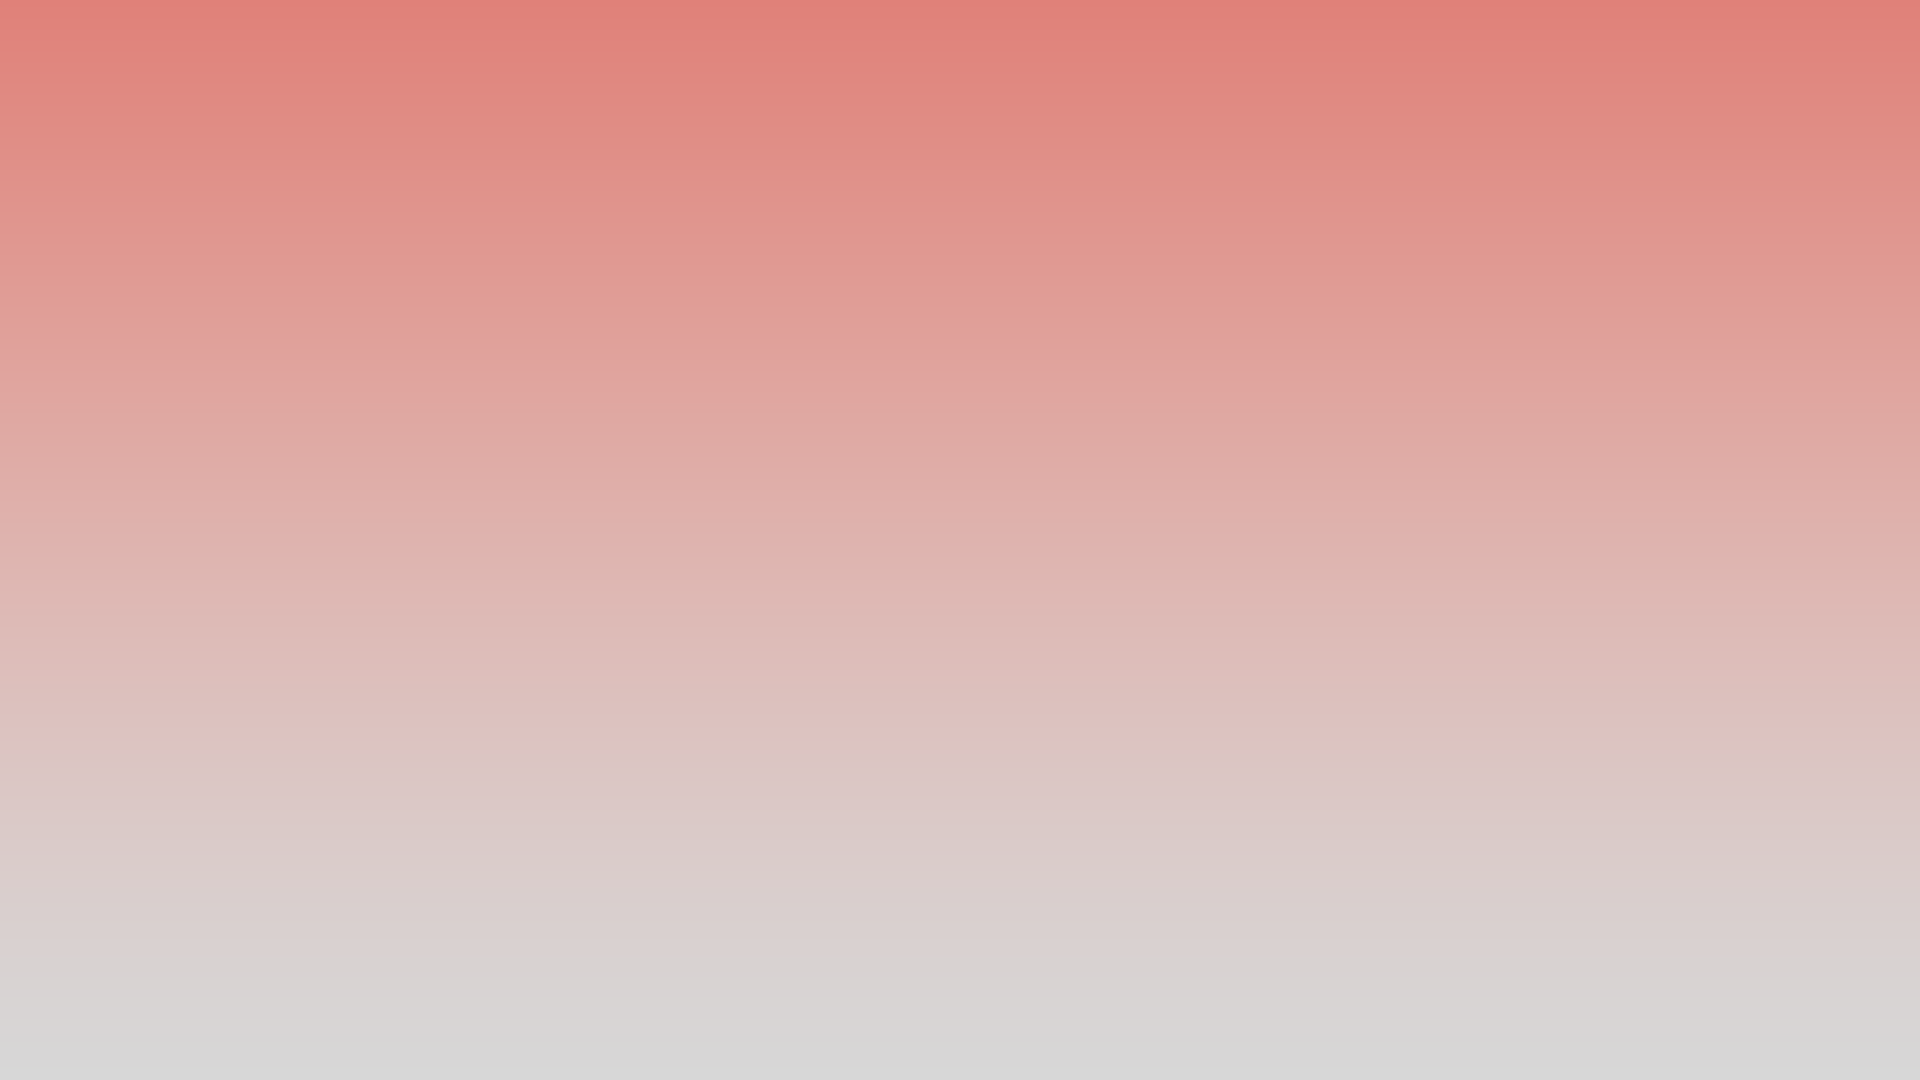
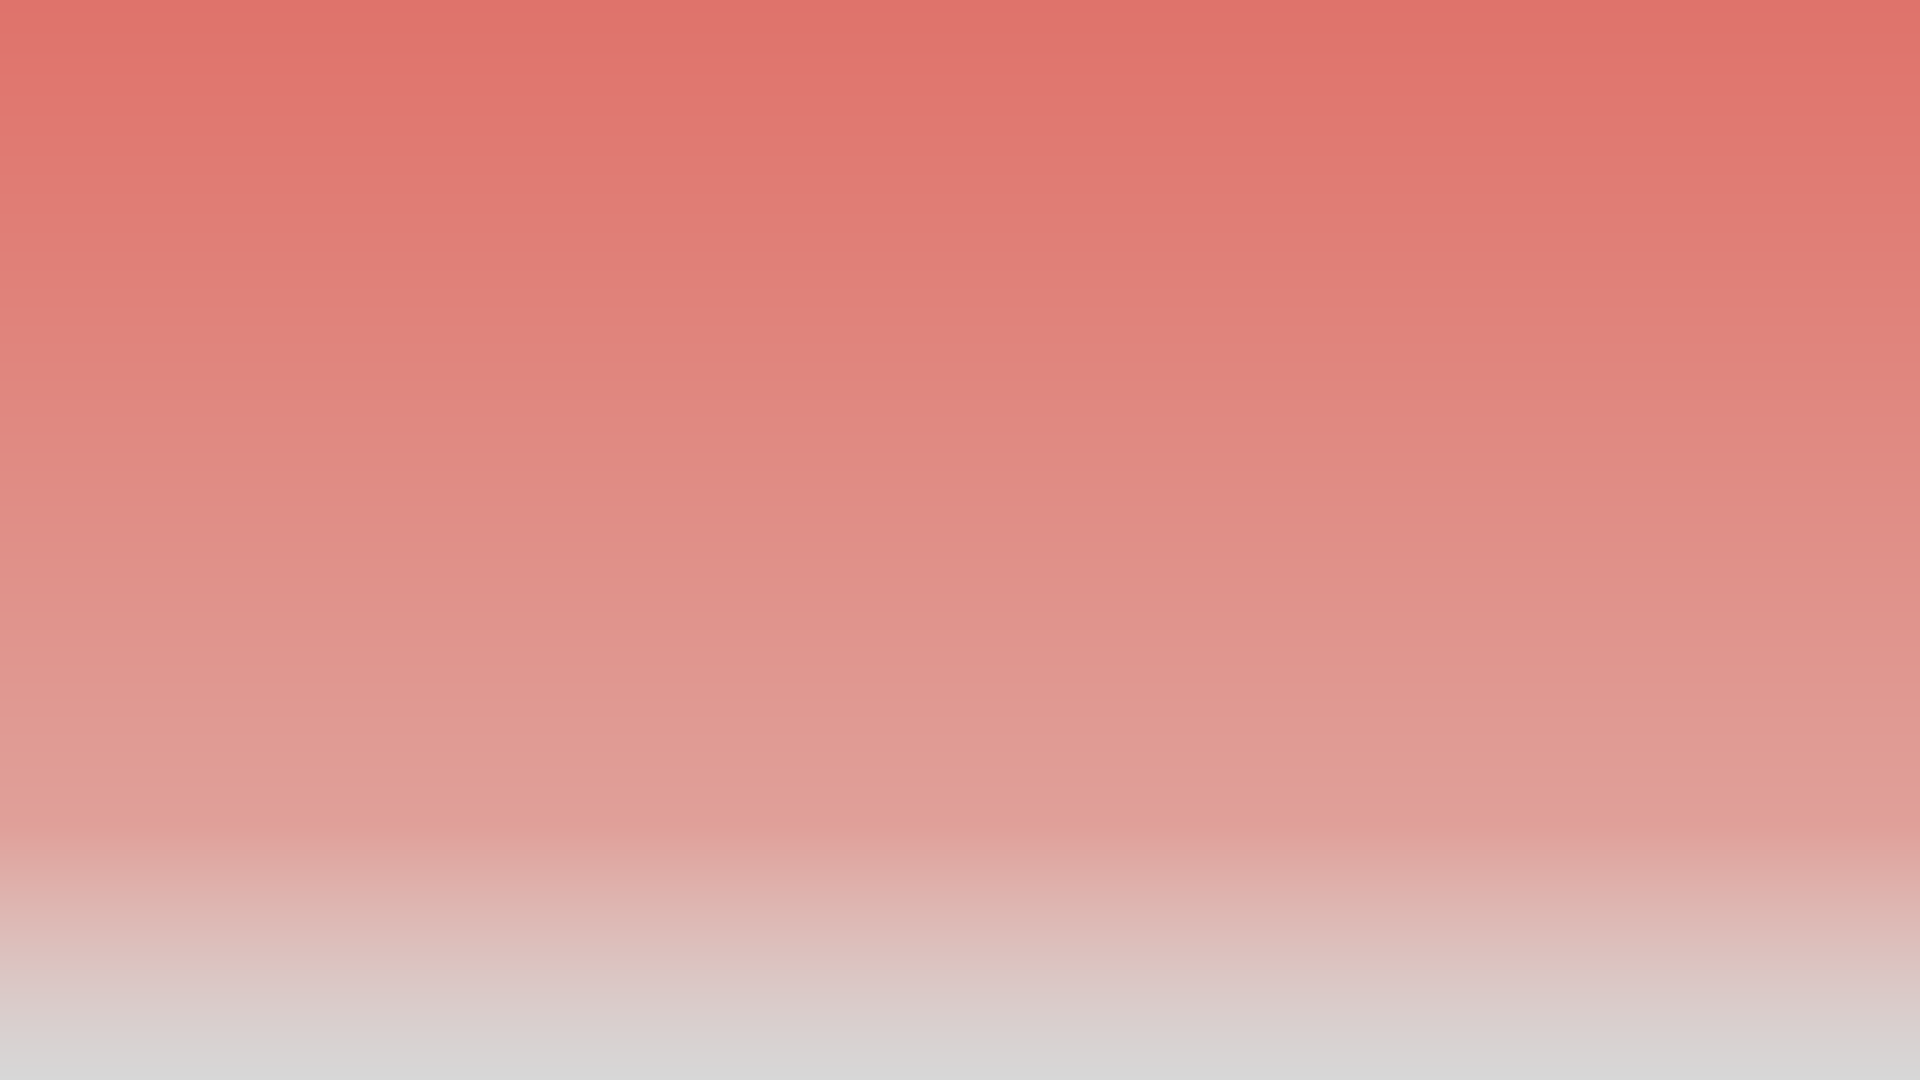
Changed gradient in background and changed fluidity for mobile devices and larger screens

diff --git a/styles.css b/styles.css
@@ -28,21 +28,6 @@ body {
   align-items: center;
 }
 
-.formatting {
-  padding: 5px;
-  font-size: 1.25em;
-  font-family: "Lucida Handwriting", "Brush Script MT", cursive;
-  /* border: 1px solid black; */
-}
-
-.off_center {
-  position: absolute;
-  top: 30%; /* Adjust as necessary */
-  left: 35%; /* Increase to move right, decrease to move left */
-  transform: translate(-50%, -50%); /* Adjust for true centering if needed */
-  /* Add width, height, etc., as necessary */
-}
-
 .parallax-container {
   position: fixed; /* Or `absolute` depending on desired effect */
   top: 0;
@@ -102,4 +87,69 @@ body {
 .content {
   position: relative;
   /* Styles for your content */
+}
+
+@media (min-width: 300px) {
+  .layer1,
+  .layer2 {
+    height: 100%;
+  }
+  .formatting {
+    padding: 5px;
+    font-size: 1em;
+  }
+  .off_center {
+    position: absolute;
+    top: 50%; /* Adjust as necessary */
+    left: 30%; /* Increase to move right, decrease to move left */
+    transform: translate(-50%, -50%); /* Adjust for true centering if needed */
+    /* Add width, height, etc., as necessary */
+  }
+}
+@media (min-width: 800px) {
+  .formatting {
+    padding: 5px;
+    font-size: 1em;
+  }
+  .off_center {
+    position: absolute;
+    top: 40%; /* Adjust as necessary */
+    left: 35%; /* Increase to move right, decrease to move left */
+    transform: translate(-50%, -50%); /* Adjust for true centering if needed */
+    /* Add width, height, etc., as necessary */
+  }
+}
+
+@media (min-width: 1000px) {
+  .formatting {
+    padding: 5px;
+    font-size: 1.75em;
+    font-family: "Lucida Handwriting", "Brush Script MT", cursive;
+    text-shadow: 2px 2px 8px black;
+  }
+
+  .off_center {
+    position: absolute;
+    top: 30%; /* Adjust as necessary */
+    left: 35%; /* Increase to move right, decrease to move left */
+    transform: translate(-50%, -50%); /* Adjust for true centering if needed */
+    /* Add width, height, etc., as necessary */
+  }
+}
+
+@media (min-width: 1920px) {
+  .formatting {
+    padding: 5px;
+    font-size: 2em;
+    font-family: "Lucida Handwriting", "Brush Script MT", cursive;
+    text-shadow: 2px 2px 8px black;
+  }
+
+  .off_center {
+    position: absolute;
+    top: 30%; /* Adjust as necessary */
+    left: 35%; /* Increase to move right, decrease to move left */
+    transform: translate(-50%, -50%); /* Adjust for true centering if needed */
+    /* Add width, height, etc., as necessary */
+  }
 }
